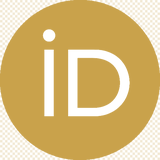
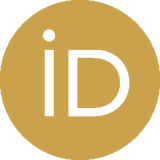
Kişi künyesi: ORCID logosu temiz kaynaktan, simgeler küçültüldü ve içeri hizalandı

diff --git a/build.py b/build.py
@@ -641,17 +641,17 @@ table.kisiler tbody tr:target{background:var(--accent-soft)}
 .kv2-unvan{margin:.25rem 0 .95rem;font-style:italic;font-size:1.3rem;color:var(--ink-soft)}
 .kv2-kurum{margin:0;padding-left:.9rem;border-left:3px solid #c9a24b;font-size:1.05rem;line-height:1.55;color:var(--ink)}
 .kv2-kurum span{display:block}
-.kv2-bag{display:flex;flex-wrap:wrap;gap:.6rem .75rem;margin:1.1rem 0 0;padding-top:.95rem;background:linear-gradient(90deg,#c9a24b,rgba(201,162,75,.12)) top/100% 1px no-repeat}
+.kv2-bag{display:flex;flex-wrap:wrap;align-items:center;gap:.6rem 1.3rem;margin:1.1rem 0 0;padding:.95rem 0 0 1.1rem;background:linear-gradient(90deg,#c9a24b,rgba(201,162,75,.12)) top/100% 1px no-repeat}
 .kv2-ik{display:inline-flex;align-items:center;padding:0;border:0;text-decoration:none;color:var(--ink)}
 /* bağlantı simgeleri: çerçevesiz, tek renk (sitenin altını) */
 .kv2-ik b{display:inline-flex;align-items:center;justify-content:center;min-width:2.2rem;height:2.2rem;color:#c9a24b;font:700 .85rem var(--sans);font-style:normal;letter-spacing:0;
   background:none!important;border:0!important;border-radius:0!important;box-shadow:none!important;transition:transform .15s,filter .15s}
 .kv2-ik:hover b,.kv2-ik:focus-visible b{transform:translateY(-2px);filter:brightness(.88)}
-.kv2-ik b svg{width:1.5rem;height:1.5rem}
-.kv2-ik b img{display:block;width:auto;height:1.7rem}
-.kv2-ik b.kv-i-yok img{height:1.4rem}
-.kv2-ik b.kv-i-avesis img{height:2rem}
-.kv2-ik b.kv-i-orcid img{height:1.9rem}
+.kv2-ik b svg{width:1.4rem;height:1.4rem}
+.kv2-ik b img{display:block;width:auto;height:1.4rem}
+.kv2-ik b.kv-i-yok img{height:1.05rem}
+.kv2-ik b.kv-i-avesis img{height:1.45rem}
+.kv2-ik b.kv-i-orcid img{height:1.4rem}
 .kv2-madalya{position:relative;z-index:1;flex:none;display:flex;align-items:center;justify-content:center;width:6.8rem;height:6.8rem;margin-right:.4rem;border-radius:50%;
   background:var(--accent);color:#d9b25c;font-family:var(--display);font-size:2.4rem;letter-spacing:.02em;box-shadow:0 0 0 4px #fff,0 0 0 6px #c9a24b,0 12px 22px -12px rgba(20,30,50,.6)}
 .kv2-madalya{overflow:hidden}
@@ -664,9 +664,9 @@ table.kisiler tbody tr:target{background:var(--accent-soft)}
   .kv2-unvan{font-size:1rem;margin:.15rem 0 .55rem}
   .kv2-kurum{font-size:.8rem;line-height:1.4;padding-left:.6rem;border-left-width:2px}
   .kv2-kurum span{display:inline}.kv2-kurum span+span::before{content:" · "}
-  .kv2-bag{margin-top:.7rem;padding-top:.65rem;padding-right:1.6rem}
-  .kv2-bag{gap:.5rem .9rem}.kv2-ik b{min-width:1.9rem;height:1.9rem;font-size:.75rem}.kv2-ik b svg{width:1.3rem;height:1.3rem}
-  .kv2-ik b img{height:1.4rem}.kv2-ik b.kv-i-yok img{height:1.2rem}.kv2-ik b.kv-i-avesis img{height:1.7rem}.kv2-ik b.kv-i-orcid img{height:1.6rem}
+  .kv2-bag{margin-top:.7rem;padding:.65rem 1.6rem 0 .8rem}
+  .kv2-bag{gap:.5rem 1rem}.kv2-ik b{min-width:1.6rem;height:1.6rem;font-size:.75rem}.kv2-ik b svg{width:1.2rem;height:1.2rem}
+  .kv2-ik b img{height:1.2rem}.kv2-ik b.kv-i-yok img{height:.9rem}.kv2-ik b.kv-i-avesis img{height:1.25rem}.kv2-ik b.kv-i-orcid img{height:1.2rem}
   .kv2-madalya{width:3.4rem;height:3.4rem;font-size:1.2rem;margin:.2rem .2rem 0 0;box-shadow:0 0 0 2px #fff,0 0 0 3px #c9a24b}}
 .akademi-not{margin-top:1.6rem;font-size:.8rem}
 .guncel .gn-ay{font-family:var(--sans);font-size:.95rem;color:var(--gold);font-weight:400;margin-left:.5rem}
